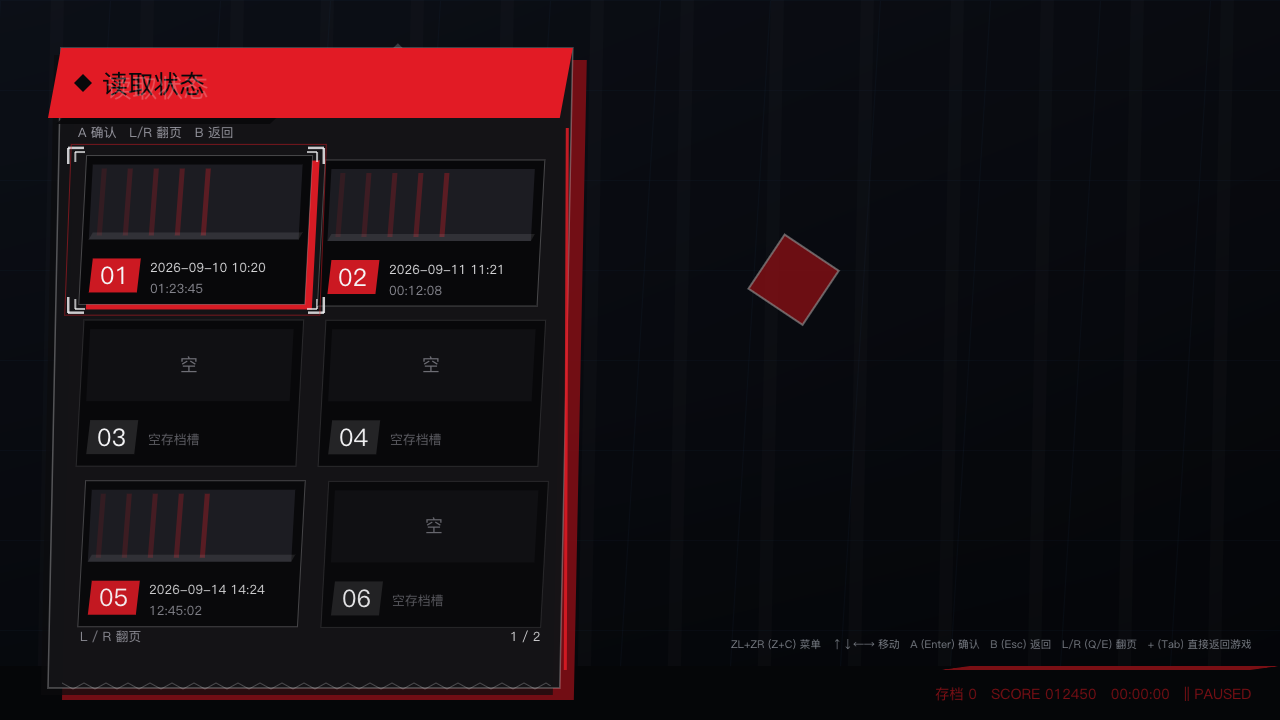
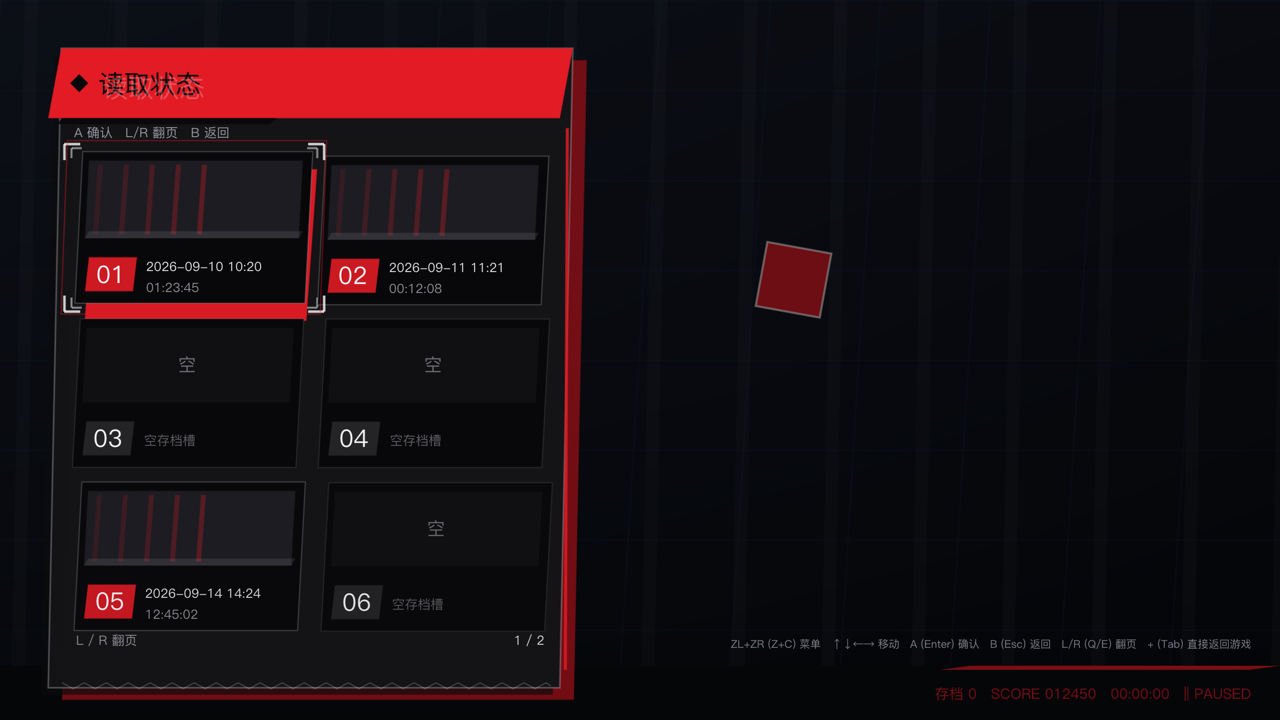
聚焦时的红色错位色块改为每次聚焦随机换形状
原来背板是一个固定偏移（+11, +6），所有条目、每次聚焦都一模一样。

新增 AccentPlate（一级菜单按钮 / 设置项 / 存档槽共用）：
- 每次获得焦点重新掷一次：左右错位、向下露出高度、宽度伸缩、斜切量浮动
- 用 SmoothTo 过渡到新形状，所以能看到色块"滑动变形"而不是瞬变
- 随机源 xorshift32，按进程启动时间播种：每次运行不同，单次运行内可复现
- 取值范围全部在 GameMenuTheme（plXXX 一组参数），绘制代码无硬编码
- 无堆分配、无平台依赖；手柄/键盘/鼠标触发的聚焦走同一路径

同时调整布局参数，否则变化看不见：
- 色块压在按钮下面，只有露出的边可见 —— row_gap 8 -> 12（留出向下露出的空间），
  plate_offset_y 最大值 14 -> 18，露出高度在 5~12px 之间变化
- group_gap 19 -> 14、panel_padding 28 -> 24、content_top 少 4px，
  保证 7 项 + 2 组分隔仍完整放得下（可用 508 vs 需要 504）
- plate_offset_x 改为 -18..12（左边缘也参与变化，更明显）

验证：脚本化注入按键让同一条目两次聚焦，抓帧对比——
色块左边缘 x=181 -> 148（16 逻辑像素位移）、形状与像素数均不同；
4 种运行方式（720p/4:3/宽屏/组件 demo）退出码 0；mac 与 Switch 均编译通过；
docs 预览图已刷新。

diff --git a/src/gamemenu/GameMenuElement.cpp b/src/gamemenu/GameMenuElement.cpp
@@ -2,6 +2,7 @@
 
 #include <cmath>
 #include <cstdio>
+#include <ctime>
 
 namespace gui_dev::gamemenu {
 namespace {
@@ -17,7 +18,66 @@ inline float PressShrink(float press, float amount) {
     return amount * std::sin(kPi * Clamp01(press));
 }
 
+// 错位色块的随机源：xorshift32。
+// 序列起点按进程启动时间播种，于是每次运行的错位形状都不同，
+// 但同一次运行内可复现（便于对比截图）。无堆分配、无平台依赖。
+std::uint32_t NextPlateSeed() {
+    static std::uint32_t state = [] {
+        const auto now = static_cast<std::uint32_t>(std::time(nullptr));
+        return (now * 2654435761u) | 1u;
+    }();
+    state ^= state << 13;
+    state ^= state >> 17;
+    state ^= state << 5;
+    return state;
+}
+
+float RandomRange(std::uint32_t& state, float lo, float hi) {
+    state ^= state << 13;
+    state ^= state >> 17;
+    state ^= state << 5;
+    const float unit = static_cast<float>(state & 0x00FFFFFFu) / 16777216.0f;
+    return lo + (hi - lo) * unit;
+}
+
 } // namespace
+
+void AccentPlate::Reset() {
+    rng = NextPlateSeed();
+    dx = 0.0f;
+    dy = 0.0f;
+    extend = 0.0f;
+    skew_jitter = 0.0f;
+    target_dx = 0.0f;
+    target_dy = 0.0f;
+    target_extend = 0.0f;
+    target_skew_jitter = 0.0f;
+}
+
+void AccentPlate::Reroll(const GameMenuTheme& theme) {
+    target_dx = RandomRange(rng, theme.plate_offset_x_min, theme.plate_offset_x_max);
+    target_dy = RandomRange(rng, theme.plate_offset_y_min, theme.plate_offset_y_max);
+    target_extend = RandomRange(rng, theme.plate_extend_min, theme.plate_extend_max);
+    target_skew_jitter = RandomRange(rng, -theme.plate_skew_jitter, theme.plate_skew_jitter);
+}
+
+void AccentPlate::Update(float dt, const GameMenuTheme& theme) {
+    const float speed = theme.plate_smoothing;
+    dx = SmoothTo(dx, target_dx, speed, dt);
+    dy = SmoothTo(dy, target_dy, speed, dt);
+    extend = SmoothTo(extend, target_extend, speed, dt);
+    skew_jitter = SmoothTo(skew_jitter, target_skew_jitter, speed, dt);
+}
+
+AccentPlate::Shape AccentPlate::Apply(const Rect& rect, float base_skew) const {
+    Shape shape;
+    shape.rect = MakeRect(rect.min.x + dx, rect.min.y + dy, rect.Width() + extend, rect.Height());
+    shape.skew = base_skew + skew_jitter;
+    if (shape.skew < 0.0f) {
+        shape.skew = 0.0f;
+    }
+    return shape;
+}
 
 // ---------------------------------------------------------------- 焦点框 ----
 
@@ -61,19 +121,23 @@ void GameMenuButton::Configure(const char* label, Icons::Material icon, MenuButt
 
 void GameMenuButton::Reset() {
     anim_.Reset();
+    plate_.Reset();
     was_focused_ = false;
 }
 
-void GameMenuButton::Update(float dt, bool focused, const MenuAnimationConfig& cfg) {
+void GameMenuButton::Update(float dt, bool focused, const GameMenuTheme& theme) {
+    const MenuAnimationConfig& cfg = theme.animation;
     // 焦点切换：固定时长推进，几何量再套 EaseOutBack 产生轻微弹性（需求 §6.8）
     anim_.focus = MoveTowards(anim_.focus, focused ? 1.0f : 0.0f, cfg.focus_duration, dt);
-    // 获得焦点的那一帧触发一次扫描高光（只触发一次，不循环，需求 §10）
+    // 获得焦点的那一帧：触发一次扫描高光（只触发一次，需求 §10）+ 重掷错位色块
     if (focused && !was_focused_) {
         anim_.sweep = 1.0f;
         anim_.flash = 1.0f;
+        plate_.Reroll(theme);
     }
     was_focused_ = focused;
 
+    plate_.Update(dt, theme);
     anim_.press = DecayOnce(anim_.press, cfg.press_duration, dt);
     anim_.sweep = DecayOnce(anim_.sweep, cfg.sweep_duration, dt);
     anim_.flash = DecayOnce(anim_.flash, cfg.flash_duration, dt);
@@ -110,9 +174,9 @@ Rect GameMenuButton::Draw(ImDrawList* draw_list, const GameMenuTheme& theme, ImV
 
     // ---- 红色扩张层：向右下偏移的红色背板（Persona 式错位板）----
     if (focus01 > 0.01f) {
-        const Rect plate = rect.Offset(theme.accent_plate_offset * focus01,
-                                       theme.accent_plate_offset * 0.55f * focus01);
-        AddSkewFilled(draw_list, plate, theme.skew, WithAlpha(theme.red, 0.95f * focus01));
+        // 随机错位色块：形状在聚焦时掷出，随 focus 淡入（可正可负、可宽可窄）
+        const AccentPlate::Shape shape = plate_.Apply(rect, theme.skew);
+        AddSkewFilled(draw_list, shape.rect, shape.skew, WithAlpha(theme.red, 0.95f * focus01));
     }
     // ---- 黑色主体 ----
     AddSkewFilled(draw_list, rect, theme.skew, theme.panel_deep);
@@ -231,7 +295,8 @@ void GameMenuTab::Reset() {
     was_selected_ = false;
 }
 
-void GameMenuTab::Update(float dt, bool selected, const MenuAnimationConfig& cfg) {
+void GameMenuTab::Update(float dt, bool selected, const GameMenuTheme& theme) {
+    const MenuAnimationConfig& cfg = theme.animation;
     anim_.focus = MoveTowards(anim_.focus, selected ? 1.0f : 0.0f, cfg.focus_duration, dt);
     if (selected && !was_selected_) {
         anim_.flash = 1.0f;
@@ -271,7 +336,8 @@ void GameMenuSelector::OnValueChanged(int direction) {
     direction_ = direction;
 }
 
-void GameMenuSelector::Update(float dt, const MenuAnimationConfig& cfg) {
+void GameMenuSelector::Update(float dt, const GameMenuTheme& theme) {
+    const MenuAnimationConfig& cfg = theme.animation;
     slide_ = DecayOnce(slide_, cfg.sweep_duration, dt);
 }
 
@@ -312,14 +378,21 @@ void GameMenuSelector::Draw(ImDrawList* draw_list, const GameMenuTheme& theme, c
 void MenuOptionRow::Reset() {
     anim.Reset();
     selector.Reset();
+    plate.Reset();
     toggle = ToggleOn() ? 1.0f : 0.0f;
+    was_focused = false;
 }
 
-void MenuOptionRow::Update(float dt, const MenuAnimationConfig& cfg) {
-    // 焦点由外部传入 Draw，这里只推进反馈类动画
+void MenuOptionRow::Update(float dt, bool focused, const GameMenuTheme& theme) {
+    const MenuAnimationConfig& cfg = theme.animation;
     anim.flash = DecayOnce(anim.flash, cfg.flash_duration, dt);
-    selector.Update(dt, cfg);
+    selector.Update(dt, theme);
     toggle = SmoothTo(toggle, ToggleOn() ? 1.0f : 0.0f, 18.0f, dt);
+    if (focused && !was_focused) {
+        plate.Reroll(theme); // 换行聚焦时同样换一个错位形状
+    }
+    was_focused = focused;
+    plate.Update(dt, theme);
 }
 
 void MenuOptionRow::Change(int direction) {
@@ -353,8 +426,8 @@ void MenuOptionRow::Draw(ImDrawList* draw_list, const GameMenuTheme& theme, cons
     const float f = focused ? 1.0f : 0.0f;
     Rect row = rect.Offset(10.0f * f, 0.0f);
     if (focused) {
-        Rect plate = row.Offset(6.0f, 4.0f);
-        AddSkewFilled(draw_list, plate, theme.skew * 0.6f, WithAlpha(theme.red, 0.9f));
+        const AccentPlate::Shape shape = plate.Apply(row, theme.skew * 0.6f);
+        AddSkewFilled(draw_list, shape.rect, shape.skew, WithAlpha(theme.red, 0.9f));
         AddSkewFilled(draw_list, row, theme.skew * 0.6f, theme.panel_deep);
         AddSkewBorder(draw_list, row, theme.skew * 0.6f, theme.white, 2.0f);
     } else {
@@ -398,15 +471,19 @@ void MenuOptionRow::Draw(ImDrawList* draw_list, const GameMenuTheme& theme, cons
 
 void GameMenuSaveSlot::Reset() {
     anim_.Reset();
+    plate_.Reset();
     was_focused_ = false;
 }
 
-void GameMenuSaveSlot::Update(float dt, bool focused, const MenuAnimationConfig& cfg) {
+void GameMenuSaveSlot::Update(float dt, bool focused, const GameMenuTheme& theme) {
+    const MenuAnimationConfig& cfg = theme.animation;
     anim_.focus = MoveTowards(anim_.focus, focused ? 1.0f : 0.0f, cfg.focus_duration, dt);
     if (focused && !was_focused_) {
         anim_.sweep = 1.0f;
+        plate_.Reroll(theme);
     }
     was_focused_ = focused;
+    plate_.Update(dt, theme);
     anim_.sweep = DecayOnce(anim_.sweep, cfg.sweep_duration, dt);
     anim_.press = DecayOnce(anim_.press, cfg.press_duration, dt);
 }
@@ -429,8 +506,8 @@ Rect GameMenuSaveSlot::Draw(ImDrawList* draw_list, const GameMenuTheme& theme, c
     const Rect thumb = MakeRect(card.min.x + 10.0f, card.min.y + 9.0f, card.Width() - 20.0f,
                                 card.Height() - footer_h - 16.0f);
     if (anim_.focus > 0.01f) {
-        AddSkewFilled(draw_list, card.Offset(7.0f * anim_.focus, 5.0f * anim_.focus), theme.skew * 0.6f,
-                      WithAlpha(theme.red, 0.95f * anim_.focus));
+        const AccentPlate::Shape shape = plate_.Apply(card, theme.skew * 0.6f);
+        AddSkewFilled(draw_list, shape.rect, shape.skew, WithAlpha(theme.red, 0.95f * anim_.focus));
     }
     AddSkewFilled(draw_list, card, theme.skew * 0.6f, theme.panel_deep);
     AddSkewBorder(draw_list, card, theme.skew * 0.6f,

diff --git a/src/gamemenu/GameMenuElement.h b/src/gamemenu/GameMenuElement.h
@@ -20,6 +20,36 @@ enum class MenuButtonKind : std::uint8_t {
     Separator, // 分组分隔线（不可聚焦，只画不规则线）
 };
 
+// ------------------------------------------------------------ 错位色块 -----
+
+// 聚焦时压在按钮下面的红色错位块。
+// 每次获得焦点重新掷一次随机形状，再用 SmoothTo 过渡过去 —— 所以
+// 「同一个条目再次聚焦」看到的错位方向/宽度也不一样（需求里的轻微位移/不规则边缘）。
+struct AccentPlate {
+    float dx = 0.0f;
+    float dy = 0.0f;
+    float extend = 0.0f;
+    float skew_jitter = 0.0f;
+    float target_dx = 0.0f;
+    float target_dy = 0.0f;
+    float target_extend = 0.0f;
+    float target_skew_jitter = 0.0f;
+    std::uint32_t rng = 0x9E3779B9u;
+
+    struct Shape {
+        Rect rect;
+        float skew = 0.0f;
+    };
+
+    // 复位：只播随机种子，形状归零；真正掷形状在首次获得焦点时（那时才有真实主题）
+    void Reset();
+    // 重新掷一次（获得焦点时调用）
+    void Reroll(const GameMenuTheme& theme);
+    void Update(float dt, const GameMenuTheme& theme);
+    // 依据本体矩形算出背板矩形与其斜切量
+    Shape Apply(const Rect& rect, float base_skew) const;
+};
+
 // ---------------------------------------------------------------- 焦点框 ----
 
 // 平滑跟随当前焦点项的装饰框（独立元素，避免每个按钮各写一套跟随逻辑）。
@@ -42,7 +72,7 @@ public:
     void Configure(const char* label, Icons::Material icon, MenuButtonKind kind);
     // OnEnter 时调用：清掉上一次的动画残留（需求 §28）
     void Reset();
-    void Update(float dt, bool focused, const MenuAnimationConfig& cfg);
+    void Update(float dt, bool focused, const GameMenuTheme& theme);
     void TriggerPress() { anim_.press = 1.0f; }
 
     Rect Draw(ImDrawList* draw_list, const GameMenuTheme& theme, ImVec2 origin, float width,
@@ -57,6 +87,7 @@ private:
     Icons::Material icon_ = Icons::Material::Count;
     MenuButtonKind kind_ = MenuButtonKind::Normal;
     MenuAnimationState anim_{};
+    AccentPlate plate_{};
     bool was_focused_ = false;
 };
 
@@ -74,7 +105,7 @@ class GameMenuTab {
 public:
     void Configure(const char* label);
     void Reset();
-    void Update(float dt, bool selected, const MenuAnimationConfig& cfg);
+    void Update(float dt, bool selected, const GameMenuTheme& theme);
     Rect Draw(ImDrawList* draw_list, const GameMenuTheme& theme, ImVec2 origin, float width,
               float height) const;
 
@@ -90,7 +121,7 @@ class GameMenuSelector {
 public:
     void Reset();
     void OnValueChanged(int direction); // -1 / +1，触发文字滑动
-    void Update(float dt, const MenuAnimationConfig& cfg);
+    void Update(float dt, const GameMenuTheme& theme);
     void Draw(ImDrawList* draw_list, const GameMenuTheme& theme, const Rect& rect, const char* value,
               bool focused, float time) const;
 
@@ -115,9 +146,11 @@ struct MenuOptionRow {
     MenuAnimationState anim{};
     float toggle = 0.0f;      // 0..1 开关填充
     GameMenuSelector selector; // Choice 行的 < v > 动画状态
+    AccentPlate plate{};       // 聚焦时的红色错位块
+    bool was_focused = false;
 
     void Reset();
-    void Update(float dt, const MenuAnimationConfig& cfg);
+    void Update(float dt, bool focused, const GameMenuTheme& theme);
     void Change(int direction); // Choice: -1/+1 换值；Toggle: 翻转
     void Draw(ImDrawList* draw_list, const GameMenuTheme& theme, const Rect& rect, bool focused,
               float time) const;
@@ -136,7 +169,7 @@ struct GameMenuSlotData {
 class GameMenuSaveSlot {
 public:
     void Reset();
-    void Update(float dt, bool focused, const MenuAnimationConfig& cfg);
+    void Update(float dt, bool focused, const GameMenuTheme& theme);
     void TriggerPress() { anim_.press = 1.0f; }
     Rect Draw(ImDrawList* draw_list, const GameMenuTheme& theme, const Rect& rect, int index,
               const GameMenuSlotData& data, float time) const;
@@ -145,6 +178,7 @@ public:
 
 private:
     MenuAnimationState anim_{};
+    AccentPlate plate_{};
     bool was_focused_ = false;
 };
 

diff --git a/src/gamemenu/GameMenuTheme.h b/src/gamemenu/GameMenuTheme.h
@@ -66,7 +66,18 @@ struct GameMenuTheme {
     float arrow_size = 9.0f;
 
     // 装饰（也放主题里，避免绘制代码里散落尺寸）
-    float accent_plate_offset = 11.0f; // 红色错位背板偏移
+    // 红色错位色块：**每次获得焦点重新掷一次**，让每个条目/每次聚焦都不一样
+    // （Persona 式「不规则边缘 + 轻微位移」）。取值范围都写在这里。
+    // 注意：色块压在按钮下面，只有露出来的边才可见 —— 所以
+    // row_gap 必须留得下 plate_offset_y 的最大值，否则变化会被下一个按钮盖住。
+    float plate_offset_x_min = -18.0f; // 负值 = 往左错位（左边缘也参与变化）
+    float plate_offset_x_max = 12.0f;
+    float plate_offset_y_min = 5.0f;   // 向下错位 = 底部露出的高度
+    float plate_offset_y_max = 18.0f;
+    float plate_extend_min = -6.0f;    // 宽度额外伸缩（负 = 比本体窄）
+    float plate_extend_max = 24.0f;
+    float plate_skew_jitter = 8.0f;    // 斜切量的随机浮动
+    float plate_smoothing = 15.0f;     // 换形状时的过渡速度（SmoothTo）
     float focus_tick_length = 16.0f;   // 焦点框四角 L 形长度
     float sweep_width = 62.0f;         // 扫描高光条宽度
 
@@ -84,9 +95,9 @@ struct GameMenuTheme {
     int slot_columns_narrow = 2;
     int slot_columns_wide = 3;
     float row_height = 56.0f;
-    float row_gap = 8.0f;
-    float group_gap = 19.0f;   // 分组之间（用分隔线，不用文字）
-    float panel_padding = 28.0f;
+    float row_gap = 12.0f;     // 留出红色错位块向下露出的空间
+    float group_gap = 14.0f;   // 分组之间（用分隔线，不用文字）
+    float panel_padding = 24.0f;
 
     // 字号（720p 设计空间）
     float title_size = 36.0f;

diff --git a/src/gamemenu/GameMenuView.cpp b/src/gamemenu/GameMenuView.cpp
@@ -258,7 +258,7 @@ void GameMenuHost::Draw(ImDrawList* draw_list, const Rect& screen) {
 
     // 内容区：标题条 + 副标题行都要让开（否则第一项会压住副标题）
     const float header_h = theme_->title_size + 34.0f;
-    const float content_top = header_h + theme_->small_size + 24.0f;
+    const float content_top = header_h + theme_->small_size + 20.0f;
     const Rect content = MakeRect(panel.min.x + theme_->panel_padding,
                                   panel.min.y + content_top,
                                   panel.Width() - theme_->panel_padding * 2.0f,

diff --git a/src/gamemenu/views/StateSlotView.cpp b/src/gamemenu/views/StateSlotView.cpp
@@ -61,11 +61,11 @@ void StateSlotView::Update(GameMenuContext& ctx) {
             focus_ = i;
         }
         if (hovered && clicked) {
-            slots_[i].Update(ctx.dt, true, ctx.theme->animation);
+            slots_[i].Update(ctx.dt, true, *ctx.theme);
             OnAction(ctx, InputAction::Confirm);
             clicked = false;
         } else {
-            slots_[i].Update(ctx.dt, i == focus_, ctx.theme->animation);
+            slots_[i].Update(ctx.dt, i == focus_, *ctx.theme);
         }
     }
     focus_frame_.Update(ctx.dt, slot_rects_[focus_], ctx.theme->animation);

diff --git a/src/gamemenu/views/SettingsView.cpp b/src/gamemenu/views/SettingsView.cpp
@@ -186,10 +186,10 @@ void SettingsView::Update(GameMenuContext& ctx) {
     }
 
     for (int i = 0; i < category_count_; ++i) {
-        tabs_[i].Update(ctx.dt, i == category_, cfg);
+        tabs_[i].Update(ctx.dt, i == category_, *ctx.theme);
     }
     for (int i = 0; i < option_count_; ++i) {
-        rows_[i].Update(ctx.dt, cfg);
+        rows_[i].Update(ctx.dt, i == focus_, *ctx.theme);
     }
 
     // 鼠标辅助：点分类切分类，点选项行聚焦，点左右区域改值

diff --git a/src/gamemenu/views/DialogView.cpp b/src/gamemenu/views/DialogView.cpp
@@ -32,7 +32,7 @@ void DialogView::OnEnter(GameMenuContext& ctx) {
 void DialogView::Update(GameMenuContext& ctx) {
     enter_ = AdvanceOnce(enter_, ctx.theme->animation.enter_duration, ctx.dt);
     for (int i = 0; i < button_count_; ++i) {
-        buttons_[i].Update(ctx.dt, i == focus_, ctx.theme->animation);
+        buttons_[i].Update(ctx.dt, i == focus_, *ctx.theme);
     }
     focus_frame_.Update(ctx.dt, button_rects_[focus_], ctx.theme->animation);
 

diff --git a/src/gamemenu/views/MainMenuView.cpp b/src/gamemenu/views/MainMenuView.cpp
@@ -87,7 +87,7 @@ void MainMenuView::Update(GameMenuContext& ctx) {
             focus_ = i; // 悬停把焦点吸过去
             focused = true;
         }
-        items_[i].Update(ctx.dt, focused, ctx.theme->animation);
+        items_[i].Update(ctx.dt, focused, *ctx.theme);
     }
     focus_frame_.Update(ctx.dt, item_rects_[focus_], ctx.theme->animation);
 }
